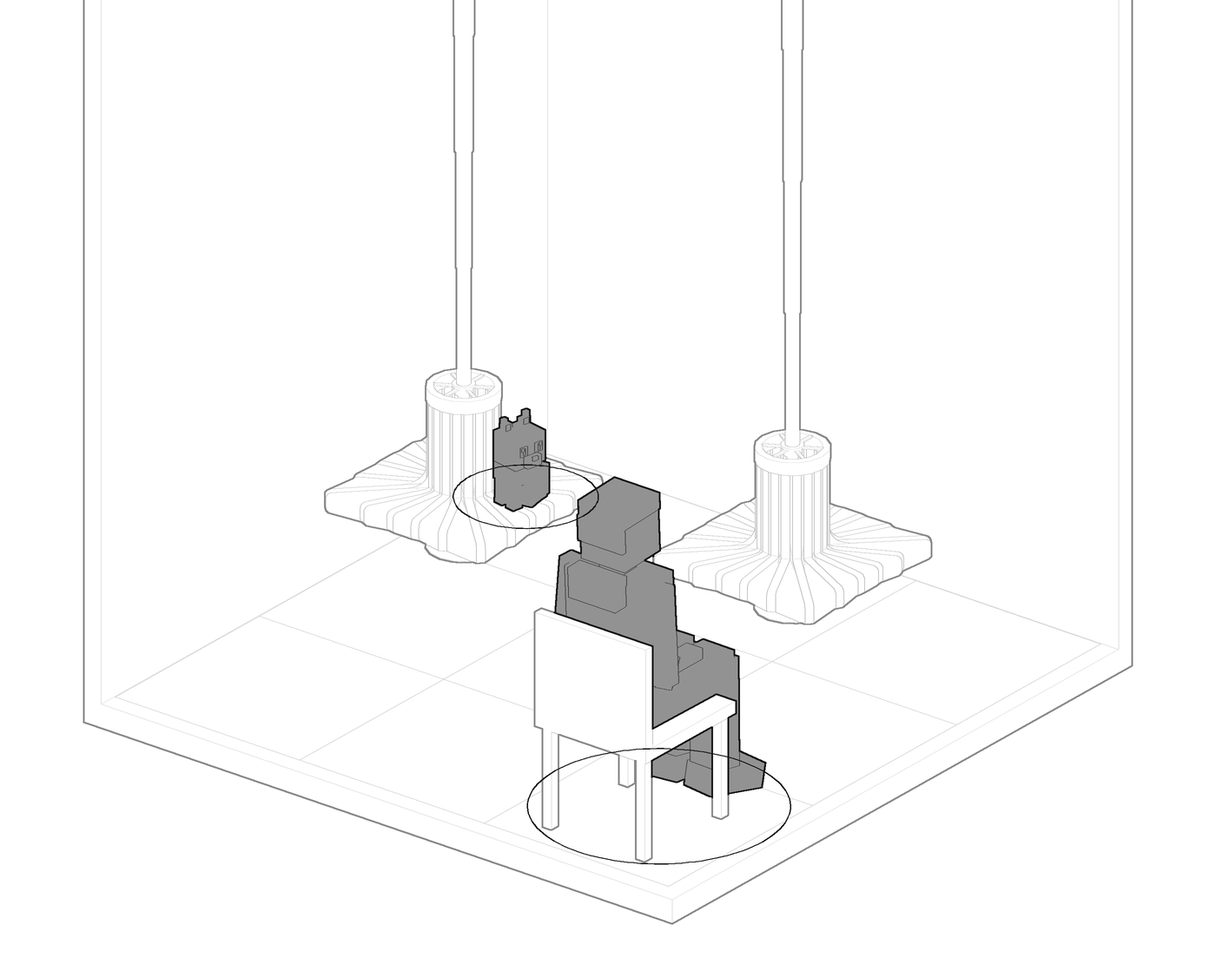
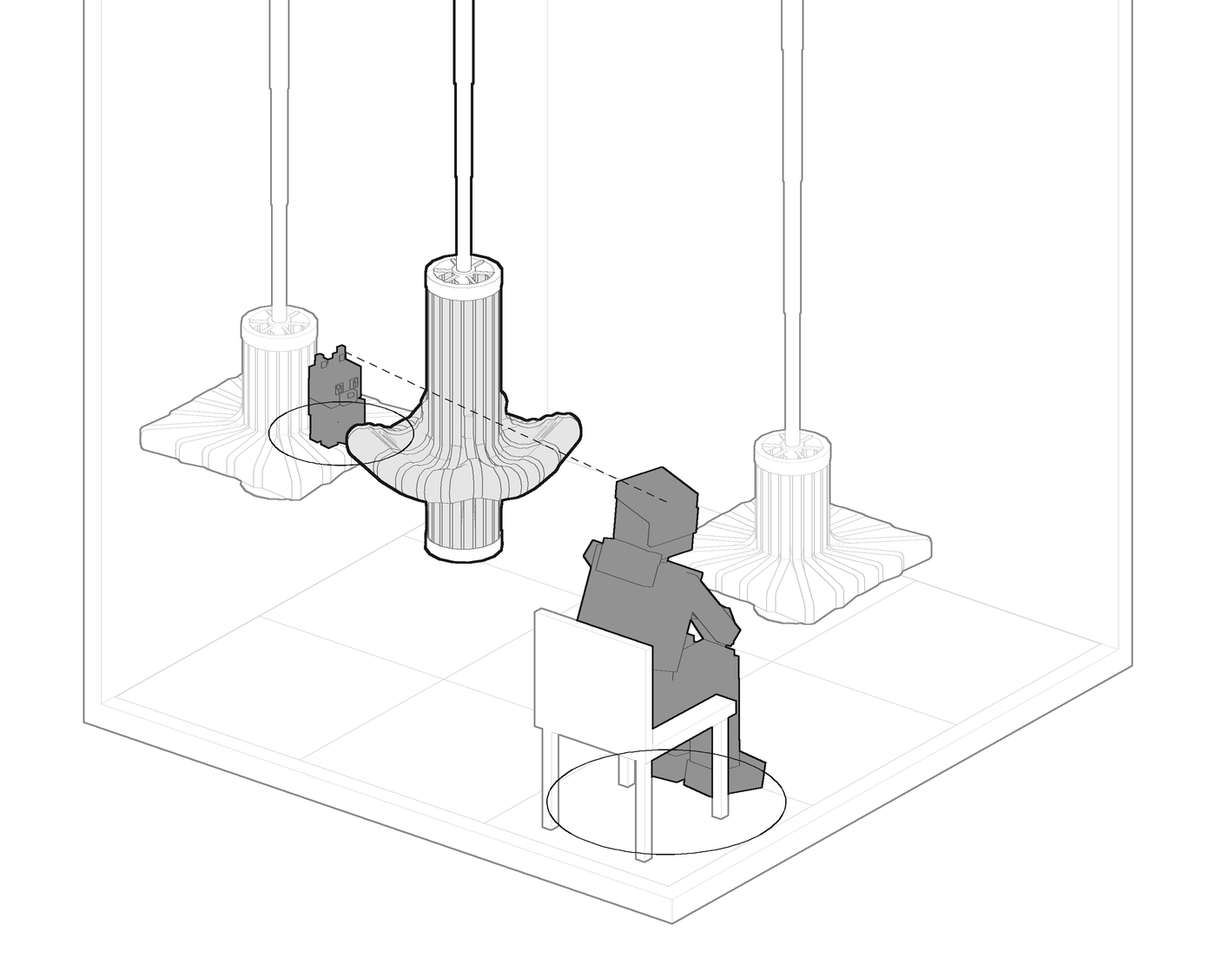
决定性瞬间图版：07 换例子，09 并进 08
- 07（会伸到他头顶上方）：原例子里猫本来就在人旁边，说不通。
  对过 cohabit.ts：猫沿着台朝坐着的人靠近，到座位旁边那台为止，
  再往前一台在头顶上方、不落。stillhead 场景按这个重写，改成两格。
- 09（相遇后保持）不单画一行，作为 08 的第四格「相遇」。
- 图版现为四章八行；说明与产物同步更新。

Claude-Session: https://claude.ai/code/session_01RPazAfSXQPsrXVZV5QtZZ3

diff --git a/src/lib/space/cohabit-vignette.ts b/src/lib/space/cohabit-vignette.ts
@@ -260,7 +260,7 @@ export const VIGNETTES = [
 export const STILL_SCENES = [
   { key: 'stillguide', n: 3, zh: '坐下那一刻桌子落下，同时给地上的猫落第一步', en: 'On sitting, the table comes down and the first step is laid for the cat' },
   { key: 'stillwatch', n: 3, zh: '站着看猫满 3 秒，猫旁边朝人的一台落下；猫换台，要去的台先落', en: 'Three seconds of standing and watching lowers a unit beside the cat; when the cat moves on, its target comes down first' },
-  { key: 'stillhead', n: 3, zh: '猫要去的台在坐着的人头顶上方：不落', en: 'The cat’s target is over a seated visitor’s head: it stays up' },
+  { key: 'stillhead', n: 3, zh: '猫朝坐着的人靠近：人头顶上方那台不落，猫停在旁边那台', en: 'A cat approaches a seated visitor: the unit over the visitor’s head stays up and the cat stops beside the seat' },
   { key: 'stillcorner', n: 3, zh: '猫要去的台的角会碰到站着的人：暂不落', en: 'A corner of the cat’s target would touch a standing visitor: it waits' },
 ] as const satisfies readonly { key: VignetteKey; n: number; zh: string; en: string }[];
 
@@ -837,7 +837,11 @@ function watchStill(l: PlanLayout): VignetteScript {
   };
 }
 
-/** §5：要落的台会伸到坐着的人头顶上方 → 不落。猫等不到，另选目标（§4 ⑤：10 s 内上不去另选） */
+/**
+ * §5：要落的台会伸到坐着的人头顶上方 → 不落。
+ * 猫沿着台朝坐着的人靠近（§2「接近人」，目标台逐台先落 = §4 ⑤），到旁边那台已经挨着人；再往前一台在人头顶上方，不落，
+ * 猫停在旁边那台（仿真里要再近就下地走过去，这里不演）。11-25 作者指出原例子（猫本来就在旁边、又被挪到斜对角）说不通，改成这个。
+ */
 function headStill(l: PlanLayout): VignetteScript {
   const n = 3;
   const p = l.pitchM;
@@ -849,44 +853,41 @@ function headStill(l: PlanLayout): VignetteScript {
   const S = seats[0];
   const tIdx = tableFor(l, rects, seats, S);
   const T = l.units[tIdx >= 0 ? tIdx : cell(n, p, 1, 2).i];
-  const C = cell(n, p, 2, 1); // 猫待的台
-  const N = cell(n, p, 1, 1); // 另选的目标
-  const snap = restSnap(l, n, rects, seats, [], C.i, T.i, true);
+  const W = cell(n, p, 2, 0); // 猫原来待的台：与座位同一排，隔着一台
+  const C = cell(n, p, 2, 1); // 座位旁边那台：猫走到这里就挨着人了；再往前 (2,2) 在人头顶上方，整场不落
+  const snap = restSnap(l, n, rects, seats, [], W.i, T.i, true);
   const formed: (UnitDesign | null)[] = new Array(n * n).fill(null);
-  for (const u of [T.i, C.i, N.i]) formed[u] = designUnit(snap, u, formed);
-  const dT = formed[T.i]!, dC = formed[C.i]!, dN = formed[N.i]!;
+  for (const u of [T.i, W.i, C.i]) formed[u] = designUnit(snap, u, formed);
+  const dT = formed[T.i]!, dW = formed[W.i]!, dC = formed[C.i]!;
   const sit = 6;
-  const want = 14; // 猫想去坐着的人头顶上方那台
-  const tN = want + 10; // 10 s 内上不去，另选目标（规则文档 §4 ⑤）
-  const xN = tN + RAMP.drop + RAMP.form + 0.5;
-  const leave = xN + 10;
+  const tC = 14; // 猫朝人靠近：目标台先落
+  const xC = tC + RAMP.drop + RAMP.form + 0.5;
+  const leave = xC + 22;
   const units: (UnitScript | null)[] = Array.from({ length: n * n }, () => null);
   units[T.i] = unitOf(unitRamp(sit, leave + 0.5), dT, 'A');
-  units[C.i] = unitOf(heldUntil(xN + 3.5), dC, 'B');
-  units[N.i] = unitOf(unitRamp(tN), dN, 'C');
+  units[W.i] = unitOf(heldUntil(xC + 3.5), dW, 'B');
+  units[C.i] = unitOf(unitRamp(tC), dC, 'C');
   const enter: [number, number] = [half + 0.3, S.y - 0.5];
   const front: [number, number] = [S.x - 0.05, S.y - 0.4];
+  const toS = Math.atan2(S.y - C.y, S.x - C.x);
   const cat: CatBeat[] = [
-    onRing(C, dC, Math.PI, 0, 'sit', Math.PI),
-    onRing(C, dC, 0, want, 'sit', 0), // 转到朝那台的一侧等着
-    onRing(C, dC, 0, tN, 'sit', -Math.PI / 2),
-    onRing(C, dC, -Math.PI / 2, xN - 0.1, 'walk', -Math.PI / 2),
-    ...crossBeats(C, N, dN, xN),
-    onRing(N, dN, Math.PI / 4, xN + 3.4, 'sit', Math.PI / 4),
+    onRing(W, dW, 0, 0, 'sit', 0),
+    onRing(W, dW, 0, xC - 0.1, 'walk', 0),
+    ...crossBeats(W, C, dC, xC),
+    onRing(C, dC, toS, xC + 3.4, 'sit', toS),
   ];
   return {
     n,
     duration: leave + 6,
     furniture,
     units,
-    people: [{ path: [[0, ...enter], [1.5, ...enter], [sit - 1, ...front], [sit, ...front], [leave, ...front], [leave + 0.5, ...front], [leave + 3.5, ...enter], [leave + 6, ...enter]], sit: [sit, leave, 0] }],
+    people: [{ path: [[0, ...enter], [1.5, ...enter], [sit - 1, ...front], [sit, ...front], [leave, ...front], [leave + 0.5, ...front], [leave + 3.5, ...enter], [leave + 6, ...enter]], sit: [sit, leave, 0], watch: [[sit + 1, leave, 0]] }],
     cats: [cat],
     beats: [
       { t: 0, zh: '一只猫在一台上坐着', en: 'A cat sits on a unit' },
       { t: sit, zh: `一位访客坐下，面前那台落下当桌子（${m2(dT.top)} m）`, en: `A visitor sits and the unit in front comes down as a table (${m2(dT.top)} m)` },
-      { t: want, zh: '猫的目标台在坐着的人头顶上方：这一台不落，猫等着', en: 'The cat’s target is over the seated visitor’s head: it stays up and the cat waits' },
-      { t: tN, zh: '上不去，猫另选目标：那一台落下', en: 'Unable to get on, the cat picks another target, which comes down' },
-      { t: xN, zh: '猫移过去，身后那台收回', en: 'The cat moves over and the unit behind it retracts' },
+      { t: tC, zh: '猫朝坐着的人靠近：目标台先落下', en: 'The cat approaches the seated visitor: its target comes down first' },
+      { t: xC, zh: '猫到了座位旁边那台。再往前一台在人头顶上方：不落', en: 'The cat reaches the unit beside the seat. The next one is over the visitor’s head: it stays up' },
     ],
   };
 }

diff --git a/CLAUDE.md b/CLAUDE.md
@@ -388,7 +388,7 @@
 
 - **Lab 2-14 加规则读数（2026-11-19 同日，作者「按推荐做」）**：说明栏顶上「规则读数 / 关于这项实验」两页、读数在前；一行一条（记号 · 判定 · 90 s 走势 · 此刻几条，成立时写谁对谁），点一行钉住展开感知与干预，悬停只留这一行的标注；平面图每台正在落的单元标出规则、细线连到起因，人猫标号；点单元出理由卡；「放一场 6 人 4 猫」= 与 2-15 同一场（抽出 `cohabit-solid.standardSceneSim`，2-15 共用），2-14 默认开场不改；第 7 节用 `--ld-amber`；痕迹（旧）、钉死、空房间写一句说明。数据 `src/lib/space/cohabit-readout.ts`、面板 `components/lab/RuleReadout.tsx`、标注 `components/lab/ruleOverlay.ts`、插槽 `LabCtl` 的 `LabReadoutSlot`、`LabPanelOpen` 加 `readout`（别的台架说明栏 DOM 不变）。房间边长不变（1440 宽 415 px）。守门 +9，全套 1560 绿，生产构建三档视口零报错。英文措辞、琥珀、「放一场」约 1 s 主线程待作者看。映射 = MAPPING §90。同日合并 master（另一会话的 Lab 2-17 感知层），读数留在 2-14：2-17 讲空间怎么读到人和猫，2-14 讲读到以后按哪条规则落单元；读数现在读真实状态，给 2-14 加「空间读什么」切换让它读传感器那一份待作者定。
 - **规则读数加「最近触发」+ 2-15 立体挂规则记号（2026-11-23，作者「规则怎么被调动的没在网页里可视化出来……哪个地方、哪个功能被怎样调动，做简单一点」）**：11-19 的 2-14 读数只列「此刻成立的状态」。读数顶上加最近三次调动，每条三句 感知 → 理解 → 干预（访客 5 坐下 → 需要桌子 → 第 19 台落到桌高），悬停一条画面指出那一台（`cohabit-readout.ts` 的 `ReadoutFeed` / `feedText`，2-14 / 2-15 共用 `RuleReadout`）；2-15 说明栏也打开读数，立体画面里每台正在落的单元头顶挂与读数行同一枚记号，最近一次触发的那台亮 3 s（`unitMarks`，投影沿用小样台上标签）。案例页主图、首页预览不变。守门 +4。待作者看三句措辞、立体要不要点单元。映射 = MAPPING §91，研究 = 项目二_规则可视化方案.md §11。
-- **决定性瞬间的线稿（2026-11-23，作者「缺一组很重要的图……像截图截到决定性瞬间，像漫画一样的静态图」→ 看第一版「全都做成黑白线稿，作品集美术风格要统一」→ 看线稿「太漫画了，要有学术气息、像竞赛图版、清新一些；猫画扁了；高亮的形式可以；箭头不要」）**：规则文档 §4、§5 每条规则一行，感知 · 干预 · 作用三格，共八行 23 格（① 路过让路 · ② 站立注视 · ③ 落座引猫 · ④ 相遇 · ⑤ 猫换台 · 桌子 · 检查：头顶 / 台角；R5 八场实跑一次没触发，不画）。做法：台架在某一秒画的三角形从 WebGL 这一层原样抄出来（`scripts/moments/gl-record.js` + `capture.mjs`，假时钟沿用 case-frames），用项目一交接图册的线稿渲染器找线（`scripts/handover/render.py` 拆出 `buffers()`，拆前拆后出图逐像素相同），`line.py` 合成黑白线稿，`sheet.mjs` 排图版；两个项目的线稿是同一种画法。画法定稿：线细、不画箭头；触发的人或猫 = 中灰底黑线 + 脚下一圈，被调动的单元 = 黑线浅灰底，让路时只标收回的带，没落的台 = 虚线框；人和猫只留很淡的分件线；地面画格线；画面只取到约 2.4 m 高；每格左上一张平面小图；字都在画面外。**站上代码只加了四个只用于出静帧的场景**（`STILL_SCENES`：`stillguide` 桌子与猫的第一步都在坐下那一刻落、猫坐着等 · `stillwatch` · `stillhead` · `stillcorner`；不进 Lab 2-16 的按钮与差分清单，用 `/lab#lab2-16-<键>` 打开；时刻照规则排——现成的 `guide` 小样是桌子先落、猫趴着，与规则不一致，没动它），守门 +3。产物在 `项目二_决定性瞬间/`。**还没做**：放进案例页（建议「方法」一节，用 FrameStrip）、PDF 用的高分辨率版、MAPPING 记录。只在工作分支 `claude/bold-franklin-iwgyht`，没有合并 master。说明 = scripts/moments/README.md。**11-24 按叙事顺序重排（作者「形式 OK；要找一个叙事逻辑，哪一行是哪一行的先决条件要讲清」）**：版头一张总表（人的状态 行走 / 站着 / 坐着 × 单元不妨碍人 / 单元落下的台，格里写行号），正文四章九行、每行标「前提」是哪几行：前提（01 单元的动作，新画、画到天花板 · 02 猫的落脚处 = 原 ⑤ + 猫在的台保持）→ 人在行走（03 让路）→ 人站着（04 台角 · 05 注视给一台）→ 人坐着（06 桌子 · 07 头顶 · 08 只落猫的下一步 · 09 相遇后保持）；`line.py` 加 `hide` / `hide_units`，`sheet.mjs` 改读分章的 plate.json，单格文件按行号改名 `NN-k.png`。
+- **决定性瞬间的线稿（2026-11-23，作者「缺一组很重要的图……像截图截到决定性瞬间，像漫画一样的静态图」→ 看第一版「全都做成黑白线稿，作品集美术风格要统一」→ 看线稿「太漫画了，要有学术气息、像竞赛图版、清新一些；猫画扁了；高亮的形式可以；箭头不要」）**：规则文档 §4、§5 每条规则一行，感知 · 干预 · 作用三格，共八行 23 格（① 路过让路 · ② 站立注视 · ③ 落座引猫 · ④ 相遇 · ⑤ 猫换台 · 桌子 · 检查：头顶 / 台角；R5 八场实跑一次没触发，不画）。做法：台架在某一秒画的三角形从 WebGL 这一层原样抄出来（`scripts/moments/gl-record.js` + `capture.mjs`，假时钟沿用 case-frames），用项目一交接图册的线稿渲染器找线（`scripts/handover/render.py` 拆出 `buffers()`，拆前拆后出图逐像素相同），`line.py` 合成黑白线稿，`sheet.mjs` 排图版；两个项目的线稿是同一种画法。画法定稿：线细、不画箭头；触发的人或猫 = 中灰底黑线 + 脚下一圈，被调动的单元 = 黑线浅灰底，让路时只标收回的带，没落的台 = 虚线框；人和猫只留很淡的分件线；地面画格线；画面只取到约 2.4 m 高；每格左上一张平面小图；字都在画面外。**站上代码只加了四个只用于出静帧的场景**（`STILL_SCENES`：`stillguide` 桌子与猫的第一步都在坐下那一刻落、猫坐着等 · `stillwatch` · `stillhead` · `stillcorner`；不进 Lab 2-16 的按钮与差分清单，用 `/lab#lab2-16-<键>` 打开；时刻照规则排——现成的 `guide` 小样是桌子先落、猫趴着，与规则不一致，没动它），守门 +3。产物在 `项目二_决定性瞬间/`。**还没做**：放进案例页（建议「方法」一节，用 FrameStrip）、PDF 用的高分辨率版、MAPPING 记录。只在工作分支 `claude/bold-franklin-iwgyht`，没有合并 master。说明 = scripts/moments/README.md。**11-24 按叙事顺序重排（作者「形式 OK；要找一个叙事逻辑，哪一行是哪一行的先决条件要讲清」）**：版头一张总表（人的状态 行走 / 站着 / 坐着 × 单元不妨碍人 / 单元落下的台，格里写行号），正文四章九行、每行标「前提」是哪几行：前提（01 单元的动作，新画、画到天花板 · 02 猫的落脚处 = 原 ⑤ + 猫在的台保持）→ 人在行走（03 让路）→ 人站着（04 台角 · 05 注视给一台）→ 人坐着（06 桌子 · 07 头顶 · 08 只落猫的下一步 · 09 相遇后保持）；`line.py` 加 `hide` / `hide_units`，`sheet.mjs` 改读分章的 plate.json，单格文件按行号改名 `NN-k.png`。**11-25 改两行（作者「07 的例子不对，猫一开始就在侧面、已经紧挨着了；09 没必要单独画一组图说明规则可以不变，只把要变的讲明白」）**：查代码确认 07 原例子（猫本来在人旁边，目标是头顶那台，最后挪到斜对角）说不通——仿真里是猫沿着台朝坐着的人靠近，到旁边那台已经挨着人，再往前一台在头顶上方、不落，猫停在旁边或下地走过去；`stillhead` 场景按这个重写，07 改成两格。09（相遇后保持）撤掉，作为 08 的第四格「相遇」，图版现为四章八行。
 - **项目二感知层：空间改读传感器（2026-11-18，作者 11-17「始终没有去做 HCI 里很重要的感知层面……在房间上边的两个角架两台摄像头交叉」→ 看过分析后 11-18「摄像头加压力 / 重量传感的方案 OK，项圈和胸牌也可以，胸牌也能表现人面朝哪……两个方案都做」）**：此前所有研究里空间直接读人和猫的真实状态。新模块 `src/lib/space/cohabit-sense.ts`（遮挡几何 + 两个方案的传感器误差 + 读不到的意图换成看得见的量），`cohabit.ts` 加可选 `sense`（空间那一步换成读传感器那一份，人和猫的行为、记账仍按真值；省略 = 逐位不变，守门核对）。方案 A = 四个上角的摄像头（3.4 m，在收起的单元下沿 3.53 m 以下）+ 单元吊杆称重 + 座位压力片；方案 B = 胸牌 / 项圈 UWB（四角基站，人体算非视距）+ 胸牌朝向（读的是身体不是头）+ 称重 + 座位压力。读不到的四样（§14.29 第 7 条）：猫想跳上哪台 → 停在哪台下面；台上的猫想去哪台 → 读不到、不先落；猫的潜伏期 → 看见它刚从人身边走开；人还没走的路线 → 按速度外推，另补「刚停在一条没开的带前的人当他要过去」（不补会把人关在带前几分钟）。**覆盖率**（3 场 × 900 s）：两台交叉时站着的人被两台同时看见 76%（同一面墙）/ 88%（对角），地上的猫 32–37%；四个上角 96% / 81%；看脸要八台才到 95%。**引导开 − 关**（6 人 4 猫 · 1800 s · 32 种子）：共温读真值 +717（+12%）、只读看得见的 +537、摄像头 +649、胸牌 +697、人只转头 +713，都显著、互相不显著；猫到座位前方那台少约四分之一；带碰到人的时间是读真值时的 1.3–3 倍（安全要单元自己测距限速）。建模时修掉三处自己的错（单元成形后上夹环 1.43 m 不是 2.13 m · 平面模型里地上的猫近一半时间站在家具位置上 = 在家具顶面上 · 停在带前的人），都重跑过。误差全是建模假设。待作者定：用哪个方案 / 几台摄像头 · 四个看得见的量要不要写进规则总表 · 案例页要不要写。站上页面零改。守门 +7。细节 = 项目二_感知层.md、人猫同台lab §14.32。
 - **Lab 2-17 · 空间怎么知道人和猫在哪（2026-11-19，作者「把它做立体的：一些平面视图，旁边生成一个低保真、用点抽象的立体模型……通过这些摄像头去观察其中的人和猫，在立体模型里看到它们真正的空间位置」）**：第八段末加一台 2D 画布台架（逻辑 700 × 520）。左边一列 = 方案 A 四台摄像头各自拍到的画面（针孔投影，只画点和线：地面、家具顶面、单元的芯与台面、人和猫的关键点；这台看见的点实心、在框里却被挡的粉色空心、虚线检测框）；右边 = 只用这些读数重建的立体模型（人 15 点骨架、猫 7 点；两台以上看见 = 实心定得住，一台 = 空心点加沿视线的一小段，没看见 = 淡影 1.5 s，全看不见标问号；指针停着的那个画视线，被挡的画到挡住处打 ×；可拖动旋转、滚轮缩放，底栏轴测 / 俯视 / 正视）。方案 B 只讲原理不写设备：左边换成俯视 + 选中身体到四个固定点的距离条（隔着身体的读长、画粉色虚线）+ 人的朝向盘，右边每个身体一个点加误差圈和读到的朝向。场景 = 2-15 那间房、6 人 4 猫，访客节奏取研究那一套（PACE_STUDY）画面里才有人走动；仿真仍读真值，这台只画传感器读到了什么。摄像头布置四档（同墙两台 / 对角两台 / 四个上角 / 四角 + 墙中点）+ 方案 B = 编制 5，差分清单 774 → 779。遮挡、误差、摄像头位置取 cohabit-sense（与研究同一份），关键点取站上人形骨架；新模块 `src/lib/space/sense-view.ts`（守门 8 项）· `sense-observer.ts` · `components/lab/senseDraw.ts` · `SenseBench.tsx`；布局沿用 2-15 的侧栏（workspace.css / lab-dark.css 选择器加 2-17）。实测（生产构建 + 无头 Chromium）：四个上角站着的人 97% 的点定得住、对角两台 77%，中英两侧无报错、英文侧无中文。构建时 Next.js 输出提示 16.4.2 有已知安全漏洞（未处理）。细节 = 项目二_感知层.md §10.1。**同日真解算（作者「是不是只用监测到这四个点的距离就可以算出人真正的空间位置」→「把这两个方案都做了：摄像头那个，拿深度相机的话甚至可以直接读到这个人在做什么；距离那个也就这么做」）**：此前立体模型与方案 B 都是「真实位置 + 一个误差」，改成从读数真算回来。新模块 `src/lib/space/sense-solve.ts`（守门 11 项）：普通摄像头每台给一条带 0.005 rad 检测误差的视线、两条以上最小二乘求点、一条只知道在线上；深度相机（建模取 75° × 65°、0.5–5.5 m、1.5 cm + 0.4%）两台以上仍按视线、只有一台时用量到的远近；从解出的关键点读人站 / 走 / 坐、前倾、在看哪只猫（看得见脸按脸、否则按两肩），猫站 / 坐 / 趴与在哪个面上（面的高度查房间，首版用脚点、深度下坐着的猫多半读成趴），每刻对照仿真真实、读错标粉；方案 B 四段距离（0.08 m 误差、隔着身体读长 0.35 m）高斯—牛顿解出位置与高度、残差过 χ²₁ 95% 标「四段对不上」，坐靠座位压力、猫在哪台靠称重。台架「方案」三档（A 普通摄像头 / A 深度相机 / B 量距离），差分清单 779 → 783。**实测**（`scripts/cohabit-sense/read-accuracy.mjs`，4 × 600 s）：站着的人的点定得住 普通两台 65–66% / 四角 91% / 八台 97%，深度两台 77–79%、四台八台与普通差不多；定住的点差 2–4 cm；站走坐各布置都约 96% 读对，在看哪只猫两台约 66%、四台 82–83%、八台 86–87%，有没有深度都一样（模型假设看得见的关节都检得出，深度在防认错上的帮助没算进去）；方案 B 全直接量到 0.08 m、一段隔着身体 0.21 m、两段 0.29 m，至少一段隔着身体占 77%，一段读长只有 41% 看得出，四个点只多一个距离、看得出有错看不出哪段；只看高度分坐站对 74%。研究里方案 B 的误差档与真解算对得上，§5 结论不改。守门 +14。细节 = 项目二_感知层.md §10.2。**拖动方向（同日，作者「这拖动是反的」）**：Z 朝上转盘按相机默认的环绕方向，往右拖时近处那一侧往左走，与用户拍板过的 Y 朝上那几台（往右拖、模型跟着手往右转）相反；竖向本来一致不动。11-20 作者「1-4 也一起翻过来」：改在共用的 camera3d（Z 朝上转盘横拖取负号），Z 朝上只有 Lab 1-4 与 2-17 两台、一起变，Y 朝上那几台不受影响；2-17 先前单独加的反号撤掉；守门 +1（两种世界里往右拖近处都往右走）。
 

diff --git a/scripts/moments/README.md b/scripts/moments/README.md
@@ -19,7 +19,7 @@
 
 ## 叙事顺序（2026-11-24 作者「要有叙事逻辑，哪一行是哪一行的前提要讲清」）
 
-版头一张总表：人的状态（行走 / 站着 / 坐着）× 单元做什么（不妨碍人 / 落下的台），格里写行号。正文四章九行，每行标出它的前提是哪几行：
+版头一张总表：人的状态（行走 / 站着 / 坐着）× 单元做什么（不妨碍人 / 落下的台），格里写行号。正文四章八行，每行标出它的前提是哪几行：
 
 | 章 | 行 | 规则文档 | 前提 | 场景键 | 取的秒（capture 的参数） | line.py 选项里标的 |
 |---|---|---|---|---|---|---|
@@ -29,10 +29,9 @@
 | 人站着 | 04 台角会碰到他 | §5 | 02 | `stillcorner` | 9.5 · 11.5 · 28 | 人猫 · 虚线框 (1,1) · 台 (1,1) + 猫 |
 | 人站着 | 05 注视台上的一只猫 | §4 ② | 02 · 04 | `stillwatch` | 7.6 · 11.5 · 21.5 | 人猫 + 视线 · 台 (1,0) · 台 (1,0) + 猫 |
 | 人坐着 | 06 坐到一个座位上 | §5 桌子 | 01 | `stillguide` | 7 · 10 · 14.4 | 人 · 台 (1,2) · 台 (1,2) + 人 |
-| 人坐着 | 07 会伸到他头顶上方 | §5 | 02 · 06 | `stillhead` | 16.5 · 20 · 37 | 人猫 · 虚线框 (2,2) · 台 (1,1) + 猫 |
-| 人坐着 | 08 猫还没到他面前 | §4 ③ | 02 · 05 · 07 | `stillguide` | 7 · 10 · 18.5 | 人猫 + 视线 · 台 (2,0) · 台 (2,1) + 猫 |
-| 人坐着 | 09 猫到了他座位前方那台 | §4 ④ | 08 | `stillguide` | 39 · 45 | 人猫 + 视线 · 台 (1,1) + 人猫 |
+| 人坐着 | 07 会伸到他头顶上方 | §5 | 02 · 06 | `stillhead` | 19 · 30 | 人猫 + 视线 + 台 (2,1) · 虚线框 (2,2) + 人猫 |
+| 人坐着 | 08 猫还没到他面前（直到相遇） | §4 ③ ④ | 02 · 05 · 07 | `stillguide` | 7 · 10 · 18.5 · 45 | 人猫 + 视线 · 台 (2,0) · 台 (2,1) + 猫 · 台 (1,1) + 人猫；四格 |
 
-顺序的理由：01、02 是读后面每一行都要用的两条（单元能做什么 · 猫的目标台先落、在的台保持）；之后按人的状态排，行走不落台、站着落一台、坐着落一串，每章先讲「不妨碍人」再讲「落下的台」；05 的一台是 08 那一串的单步，09 是 08 的终点，所以排在最后。
+顺序的理由：01、02 是读后面每一行都要用的两条（单元能做什么 · 猫的目标台先落、在的台保持）；之后按人的状态排，行走不落台、站着落一台、坐着落一串，每章先讲「不妨碍人」再讲「落下的台」；05 的一台是 08 那一串的单步。相遇（§4 ④）是「不再落新台」，不单画一行，作为 08 的最后一格（11-25 作者：没变的不用单独画，只把要变的讲明白）。07 的例子是猫沿台朝坐着的人靠近、到旁边那台为止（11-25 作者指出原例子说不通后改）。
 
 `stillguide` 等四个是只用于出静帧的场景（`src/lib/space/cohabit-vignette.ts` 的 `STILL_SCENES`，不进 Lab 2-16 的按钮与差分清单，时刻照规则排）。除 01 外各格统一用 `"w":1400,"h":1773,"crop":[0,0.365,1,1]`。R5（任何人到任何门始终有路）没画：八场实跑里一次没触发。图版的字在 `rows/letting-agent.json`。
